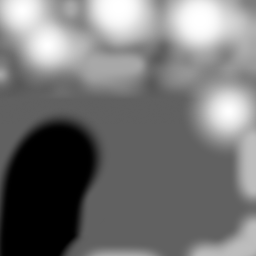
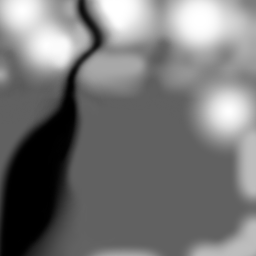
Setup a scene for the program's startup. Tweaked and added terrains

Changed region(s): [[0.0938, 0.0, 0.4375, 1.0]]

diff --git a/src/Level.cpp b/src/Level.cpp
@@ -16,6 +16,7 @@
 #include "SphereNode.h"
 #include "ModelNode.h"
 #include "CylinderNode.h"
+#include "ConeNode.h"
 
  /**
   * Constructor
@@ -105,64 +106,74 @@ void test_print_modelNode_positions(ModelNode* p_node)
  */
 void Level::reset() {
 
+	//--- Group of 5 adventurers. 
+	// The user can add the knight via the "Add Node" button (it's more insteresting to use if they are not addding a duplicate)
 	GroupNode* adventurer_group = new GroupNode("Adventurers");
-	adventurer_group->getTransform().setPosition(0, -390, 0);
+	adventurer_group->getTransform().setOrientation(glm::vec3(180, 0, 0));
 	m_tree->addChild(adventurer_group);
 
 	ModelNode* node_rogue = new ModelNode("Rogue", "Kaykit/Characters/gltf/Rogue.glb");
 	adventurer_group->addChild(node_rogue);
-	node_rogue->getModel().setRotation(0, 180, 1, 0, 0);
+	node_rogue->setProperty("Animation", 11);
 
 	ModelNode* node_barbarian = new ModelNode("Barbarian", "Kaykit/Characters/gltf/Barbarian.glb");
 	adventurer_group->addChild(node_barbarian);
-	node_barbarian->setPosition(50, 0, 1330);
-	node_barbarian->getModel().setRotation(0, 180, 1, 0, 0);
-	node_barbarian->getTransform().setOrientation(glm::vec3(0,-136,0));
+	node_barbarian->setPosition(-600, 0, -75);
+	node_barbarian->getTransform().setOrientation(glm::vec3(0,-25,0));
 
 	ModelNode* node_mage = new ModelNode("Mage", "Kaykit/Characters/gltf/Mage.glb");
 	adventurer_group->addChild(node_mage);
-	node_mage->setPosition(1050, 0, 1335);
-	node_mage->getModel().setRotation(0, 180, 1, 0, 0);
-	node_mage->getTransform().setOrientation(glm::vec3(0,-136,0));
+	node_mage->setPosition(-1200, 0, -200);
+	node_mage->getTransform().setOrientation(glm::vec3(0, -45, 0));
+	node_mage->setProperty("Animation", 13);
 
 	ModelNode* node_engineer = new ModelNode("Engineer", "Kaykit/Characters/gltf/Engineer.glb");
 	adventurer_group->addChild(node_engineer);
-	node_engineer->setPosition(600, 0, 0);
-	node_engineer->getModel().setRotation(0, 180, 1, 0, 0);
+	node_engineer->setPosition(600, 0, -75);
+	node_engineer->getTransform().setOrientation(glm::vec3(0, 25, 0));
 
 	ModelNode* node_druid = new ModelNode("Druid", "Kaykit/Characters/gltf/Druid.glb");
 	adventurer_group->addChild(node_druid);
-	node_druid->setPosition(1200, 0, 0);
-	node_druid->getModel().setRotation(0, 180, 1, 0, 0);
+	node_druid->setPosition(1200, 0, -200);
+	node_druid->getTransform().setOrientation(glm::vec3(0, 45, 0));
+	node_druid->setProperty("Animation", 0);
 
-	ModelNode* node_knight = new ModelNode("Druid", "Kaykit/Characters/gltf/Knight.glb");
-	adventurer_group->addChild(node_knight);
-	node_knight->setPosition(1800, 0, 0);
-	node_knight->getModel().setRotation(0, 180, 1, 0, 0);
+	//--- A pine tree made of primitives
+	GroupNode* tree_group = new GroupNode("Pine Tree");
+	tree_group->getTransform().setPosition(300, 300, -1200);
+	m_tree->addChild(tree_group);
 
-	CylinderNode* node_cylinder = new CylinderNode("Cylinder");
-	m_tree->addChild(node_cylinder);
-	node_cylinder->getTransform().setScale(3,12,3);
-	node_cylinder->getTransform().setPosition(300, 0, -1200);
-	node_cylinder->setProperty("Diffuse Color", ofFloatColor((float)0.48, (float)0.84, (float)0.66));
+	CylinderNode* node_cylinder = new CylinderNode("Trunk");
+	tree_group->addChild(node_cylinder);
+	node_cylinder->getTransform().setScale(3,4,3);
+	node_cylinder->setProperty("Diffuse Color", ofFloatColor(0.5, 0.31, 0.07));
 
+	ConeNode* node_cone = new ConeNode("Foliage");
+	tree_group->addChild(node_cone);
+	node_cone->getTransform().rotateDeg(180.0,glm::vec3(0,0,1));
+	node_cone->getTransform().setPosition(0, 600, 0);
+	node_cone->getTransform().setScale(10, 7, 10);
+	node_cone->setProperty("Diffuse Color", ofFloatColor(0.08, 0.28, 0.20));
+
+	//--- Ground and water
 	TerrainNode* terrain = new TerrainNode("Terrain");
-	terrain->getTransform().setPosition(0, -100, 0);
+	terrain->getTransform().setPosition(0, 300, 0);
 	terrain->getTransform().setScale(2.0, 1.0, 2.0);
 	terrain->setTerrainName("plains_with_mountains");
 	terrain->loadTerrain();
 	m_tree->addChild(terrain);
-	terrain->setProperty("Diffuse Color", ofFloatColor((float)0.78, (float)0.53, (float)0.36));
+	terrain->setProperty("Diffuse Color", ofFloatColor(0.78, 0.53, 0.36));
 
 	PlaneNode* plane = new PlaneNode("Water");
-	plane->getTransform().setPosition(0, -550, 0);
+	plane->getTransform().setPosition(0, -50, 0);
 	plane->getTransform().setOrientation(glm::vec3(-90, 0, 0));
 	plane->getTransform().setScale(2.0, 2.0, 1.0);
 	plane->setWidth(5000);
 	plane->setHeight(5000);
-	plane->getMaterial().setDiffuseColor(ofFloatColor(0.0, 0.0, 1.0));
+	plane->getMaterial().setDiffuseColor(ofFloatColor(0.27, 0.73, 1.0));
 	m_tree->addChild(plane);
 
+	//--- Group node of spheres. This showcases the "Display" feature
 	GroupNode* node = new GroupNode("Group");
 	node->getTransform().setPosition(0, 0, 0);
 	m_tree->addChild(node);

diff --git a/src/ui/AddNodeDialog.cpp b/src/ui/AddNodeDialog.cpp
@@ -189,7 +189,7 @@ void AddNodeDialog::draw() {
             } else {
                 parent = Global::m_level.getTree()->findNode(Global::m_selectedNode);
             }
-            ModelNode* childNode = new ModelNode("Model", "Kaykit/Characters/gltf/Mage.glb");
+            ModelNode* childNode = new ModelNode("Model", "Kaykit/Characters/gltf/Knight.glb");
             parent->addChild(childNode);
 
             if (Global::m_selectedNode != -1) {

diff --git a/src/Global.cpp b/src/Global.cpp
@@ -26,9 +26,9 @@ TooltipMessages Global::m_tooltipMessages;
 void Global::setup() {
 
 
-	m_cameras[0].setup(ofVec3f(-2500, 500, 500), ofVec3f(0, 0, 500));
+	m_cameras[0].setup(ofVec3f(0, 600, 2100), ofVec3f(0, 400, 0));
 	m_cameras[1].setup(ofVec3f(0, 3000, 0), ofVec3f(0, 0, 0));
-	m_cameras[2].setup(ofVec3f(3000, 300, 0), ofVec3f(0, 300, 0));
+	m_cameras[2].setup(ofVec3f(2400, 300, 200), ofVec3f(0, 300, 200));
 
 	m_level.reset();
 
